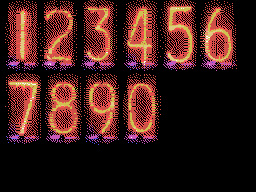
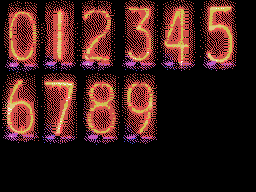
+fix nixie

diff --git a/jtools/src/steckschwein/nixie/reorggfx.java b/jtools/src/steckschwein/nixie/reorggfx.java
@@ -63,22 +63,38 @@ public class reorggfx {
 
 	private static int reorgBank(byte[] inb, byte[] b, int ix, int startRow, int rows) {
 		int bytesPerLine = 32 * 8;
-		int zeroOffs = (5 * 8 * 6 + 2 * 8) * 9 + 5 * 8 * 3;
-		int one2sixOffs = 0;
-		int seven29Offs = (5 * 8 * 6 + 2 * 8) * 9;
+		int zero2fiveOffs = 0;
+		int six2NineOffs = bytesPerLine * 9;
 		for (int i = startRow; i < (startRow + rows); i++) {
-			int offs = zeroOffs + (i * bytesPerLine); // zero
-			ix = cut(inb, offs, 5 * 8 * 1, b, ix);
-			offs = one2sixOffs + (i * bytesPerLine); // 1-6
+			int offs = zero2fiveOffs + (i * bytesPerLine); // 0-5
 			ix = cut(inb, offs, 5 * 8 * 6, b, ix);
-			offs = seven29Offs + (i * bytesPerLine);// 7-9
-			ix = cut(inb, offs, 5 * 8 * 3, b, ix);
+			offs = six2NineOffs + (i * bytesPerLine);// 6-9
+			ix = cut(inb, offs, 5 * 8 * 4, b, ix);
 		}
 		for (int i = 0; i < 7; i++)
 			b[ix++] = 0;// blank
 
 		return ix;
 	}
+
+	// private static int reorgBank(byte[] inb, byte[] b, int ix, int startRow, int rows) {
+	// int bytesPerLine = 32 * 8;
+	// int zeroOffs = (5 * 8 * 6 + 2 * 8) * 9 + 5 * 8 * 3;
+	// int one2sixOffs = 0;
+	// int seven29Offs = (5 * 8 * 6 + 2 * 8) * 9;
+	// for (int i = startRow; i < (startRow + rows); i++) {
+	// int offs = zeroOffs + (i * bytesPerLine); // zero
+	// ix = cut(inb, offs, 5 * 8 * 1, b, ix);
+	// offs = one2sixOffs + (i * bytesPerLine); // 1-6
+	// ix = cut(inb, offs, 5 * 8 * 6, b, ix);
+	// offs = seven29Offs + (i * bytesPerLine);// 7-9
+	// ix = cut(inb, offs, 5 * 8 * 3, b, ix);
+	// }
+	// for (int i = 0; i < 7; i++)
+	// b[ix++] = 0;// blank
+	//
+	// return ix;
+	// }
 
 	private static int cut(byte[] inb, int offs, int l, byte[] b, int ix) {
 		for (int i = 0; i < l; i++) {
